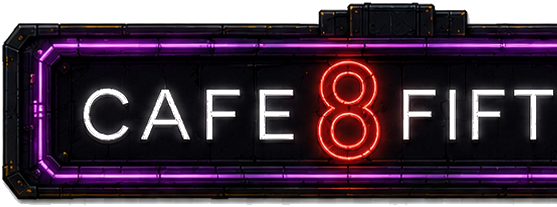
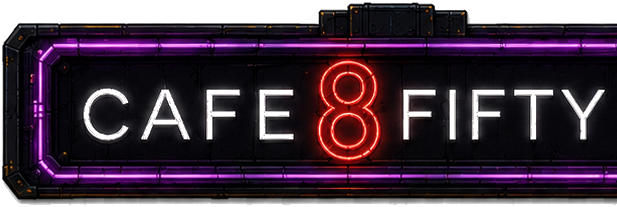
Tune cafe8fifty tile layout: full sign + clean facade, no header leaks
Iteration on the cafe8fifty exterior tile composer:
- Re-slice sheet 01 backdrops + facade with top_y=130 (was 100) to drop
  the "BACKDROPS" / "CORE FACADE STRUCTURE" section header glow
- Re-slice cafe8fifty_main_sign at w=640 (was 580) so the full
  "CAFE 8 FIFTY" lettering is captured (previously truncated at "FIFT")
- TileComposer now accepts worldW/worldH in TileLayout; tiles are written
  in the natural 1439x677 backdrop coordinate space and the composer
  scales the whole composition uniformly to fit the 960x540 viewport
- Layout rewritten in natural coords with bottom-center origin per tile,
  overlay the standalone main_sign on top of the facade to avoid the
  baked-in version being cut by panel overlap
- Layout now includes: sky + skyline + moon, 3-piece facade with neon-8
  baked in, separate main sign overlay, FSU/FAMU flyers, HITMANS VIP
  promo + members-only + NO PARKING signs, side signboard, TALLY ROW
  sign, fire hydrant, both streetlamps, front door + 850 rug + red
  rope stanchions + potted plants + VIP ENTRY sign, lit tent + smoker
  grill, fence run across foreground, hedge planters + lot edge wall

Verified live (?tiles=1): scene matches the cafe8fifty_pack_07_outside
_finished.png reference closely. Still uses pre-composited backdrop on
the default path so the live game stays working without ?tiles=1.

Claude-Session: https://claude.ai/code/session_018uytToQJ8XfYJwtLkfpMrS

diff --git a/game/src/data/layouts/cafe8fifty_exterior.ts b/game/src/data/layouts/cafe8fifty_exterior.ts
@@ -1,9 +1,10 @@
 // Cafe8Fifty exterior tile layout — assembled from sheets 01-04 of the
-// Stage 1 Venue Pack. The pre-composited cafe8fifty_exterior.png is the
-// BLUEPRINT REFERENCE — we recreate that layout here using individual tiles.
+// Stage 1 Venue Pack. Coordinates are in the NATURAL 1439×677 backdrop
+// space (matching the pre-composited cafe8fifty_exterior.png). TileComposer
+// scales the whole composition to fit GAME_WIDTH × GAME_HEIGHT (960×540).
 //
-// Scene is 960×540. Y origin (0,0) is top-left. Tiles use bottom-center
-// origin so y = where the tile's base sits on the floor / ground.
+// Origin convention: bottom-center per tile (origin [0.5, 1]). y is where
+// the tile's BASE sits in world coords.
 
 import type { TileLayout } from '../../systems/TileComposer';
 
@@ -11,76 +12,82 @@ export const CAFE8FIFTY_EXTERIOR_LAYOUT: TileLayout = {
   id: 'cafe8fifty_exterior',
   area: 'cafe8fifty/outside',
   prefix: 'cafe8fifty_outside_',
+  worldW: 1439,
+  worldH: 677,
   tiles: [
-    // ── LAYER 0: SKY BACKDROP (full width, behind everything) ───────────────
-    { tile: 'night_sky_backdrop', x: 0,   y: 220, w: 960, h: 220, origin: [0, 1], depth: -2000, alpha: 1 },
-    { tile: 'city_skyline_panel', x: 480, y: 260, w: 800, h: 140, depth: -1999, alpha: 0.95 },
-    { tile: 'moon_cloud_sky_panel', x: 780, y: 100, w: 220, h: 110, depth: -1998, alpha: 0.9 },
+    // ── LAYER 0: SKY (full width, far back) ─────────────────────────────────
+    { tile: 'night_sky_backdrop',  x: 0,    y: 0,   w: 1439, h: 310, origin: [0, 0], depth: -2000 },
+    { tile: 'city_skyline_panel',  x: 1080, y: 230, w: 720,  h: 150, depth: -1995 },
+    { tile: 'moon_cloud_sky_panel', x: 1230, y: 110, w: 230, h: 110, depth: -1990 },
 
-    // ── LAYER 1: FACADE STRUCTURE (back wall, behind floor) ─────────────────
-    { tile: 'facade_left_wing',          x: 130, y: 360, w: 230, h: 250, depth: -1900 },
-    { tile: 'cafe8fifty_facade_center',  x: 460, y: 360, w: 380, h: 260, depth: -1900 },
-    { tile: 'facade_right_wing',         x: 800, y: 360, w: 280, h: 250, depth: -1900 },
+    // ── LAYER 1: FACADE (back wall) ────────────────────────────────────────
+    // Center facade (CAFE 8 FIFTY sign + entry block)
+    { tile: 'cafe8fifty_facade_center', x: 540, y: 420, w: 380, h: 290, depth: -1900 },
+    // Left wing (with neon 8 + FSU/FAMU flyers area)
+    { tile: 'facade_left_wing',         x: 250, y: 420, w: 280, h: 270, depth: -1900 },
+    // Right wing (with HITMANS VIP After Spot signage + bricks toward tents)
+    { tile: 'facade_right_wing',        x: 820, y: 420, w: 290, h: 270, depth: -1900 },
+    // Far right wall extension (bricks toward NO PARKING sign)
+    { tile: 'wall_extender_straight',   x: 1020, y: 420, w: 260, h: 270, depth: -1905 },
 
-    // Main sign on the facade
-    { tile: 'cafe8fifty_main_sign',      x: 460, y: 80,  w: 400, h: 90,  depth: -1850 },
+    // ── LAYER 2: SIGNAGE on facade (overlay clean main sign on top — the
+    // version baked into the facade tiles gets cut by panel overlap) ─────
+    { tile: 'cafe8fifty_main_sign',   x: 540, y: 220, w: 380, h: 95,  depth: -1850 },
+    { tile: 'fsu_famu_flyer_a',       x: 390, y: 330, w: 70,  h: 130, depth: -1840 },
+    { tile: 'fsu_famu_flyer_b',       x: 465, y: 330, w: 70,  h: 130, depth: -1840 },
+    { tile: 'hvas_promo_sign',        x: 785, y: 320, w: 115, h: 125, depth: -1840 },
+    { tile: 'no_parking_sign',        x: 1250, y: 245, w: 60, h: 80,  depth: -1840 },
 
-    // Side neon "8" on the left facade
-    { tile: 'neon_eight_sign',           x: 200, y: 270, w: 80,  h: 130, depth: -1840 },
+    // ── LAYER 3: LEFT-SIDE PROPS ────────────────────────────────────────────
+    // Streetlamp left
+    { tile: 'streetlamp',             x: 145, y: 380, w: 40,  h: 280, depth: 380 },
+    // CAFE 8 FIFTY signboard
+    { tile: 'cafe8fifty_side_signboard', x: 65, y: 360, w: 95, h: 190, depth: 360 },
+    // Tally Row street sign
+    { tile: 'tally_row_street_sign',  x: 165, y: 290, w: 90, h: 105, depth: 290 },
+    // Fire hydrant
+    { tile: 'fire_hydrant',           x: 85,  y: 535, w: 38, h: 95,  depth: 535 },
+    // Streetlamp right (mirror)
+    { tile: 'streetlamp',             x: 1265, y: 350, w: 40, h: 280, depth: 350 },
 
-    // FSU / FAMU flyer panels next to entrance
-    { tile: 'fsu_famu_flyer_a',          x: 330, y: 280, w: 75,  h: 115, depth: -1840 },
-    { tile: 'fsu_famu_flyer_b',          x: 410, y: 280, w: 75,  h: 115, depth: -1840 },
+    // ── LAYER 4: ENTRY (door + rug + stanchions + plants) ───────────────────
+    { tile: 'front_double_door',      x: 540, y: 405, w: 120, h: 220, depth: -1830 },
+    { tile: 'entry_rug_850',          x: 540, y: 405, w: 140, h: 50,  depth: 405 },
+    // Red rope stanchions flanking the door
+    { tile: 'red_rope_stanchion',     x: 445, y: 380, w: 70, h: 95,  depth: 380 },
+    { tile: 'red_rope_stanchion',     x: 635, y: 380, w: 70, h: 95,  depth: 380 },
+    // Potted plants flanking
+    { tile: 'potted_plant',           x: 405, y: 380, w: 48, h: 90,  depth: 380 },
+    { tile: 'potted_plant',           x: 670, y: 380, w: 48, h: 90,  depth: 380 },
+    // VIP ENTRY sign
+    { tile: 'vip_entry_sign',         x: 720, y: 380, w: 55, h: 90,  depth: 380 },
 
-    // Front double door (entrance)
-    { tile: 'front_double_door',         x: 510, y: 360, w: 90,  h: 165, depth: -1830 },
+    // ── LAYER 5: TENTS (right side) ─────────────────────────────────────────
+    { tile: 'tent_interior_lit',      x: 1090, y: 460, w: 480, h: 250, depth: 460 },
+    // Smoker grill / hibachi in front of tents
+    { tile: 'smoker_grill',           x: 935,  y: 495, w: 120, h: 100, depth: 495 },
+    // HITMANS VIP After Spot small sign next to smoker
+    { tile: 'hvas_promo_sign',        x: 1050, y: 480, w: 55,  h: 85,  depth: 480 },
 
-    // HVAS promo + members only signs on right facade
-    { tile: 'hvas_promo_sign',           x: 680, y: 290, w: 90,  h: 120, depth: -1840 },
-    { tile: 'members_only_panel',        x: 770, y: 290, w: 75,  h: 120, depth: -1840 },
+    // ── LAYER 6: FENCE (zigzag across foreground) ──────────────────────────
+    { tile: 'fence_corner',           x: 285,  y: 555, w: 90,  h: 90,  depth: 555 },
+    { tile: 'fence_straight',         x: 380,  y: 555, w: 90,  h: 70,  depth: 555 },
+    { tile: 'fence_straight',         x: 475,  y: 555, w: 90,  h: 70,  depth: 555 },
+    { tile: 'fence_straight',         x: 565,  y: 555, w: 90,  h: 70,  depth: 555 },
+    { tile: 'fence_corner',           x: 660,  y: 555, w: 90,  h: 90,  depth: 555, flipX: true },
+    { tile: 'fence_straight',         x: 760,  y: 555, w: 90,  h: 70,  depth: 555 },
+    { tile: 'fence_straight',         x: 855,  y: 555, w: 90,  h: 70,  depth: 555 },
+    { tile: 'fence_straight',         x: 950,  y: 555, w: 90,  h: 70,  depth: 555 },
+    { tile: 'fence_corner',           x: 1045, y: 555, w: 90,  h: 90,  depth: 555 },
 
-    // VIP entry signboard
-    { tile: 'cafe8fifty_side_signboard', x: 50,  y: 380, w: 75,  h: 175, depth: -1840 },
-
-    // Tally Row street sign post (corner)
-    { tile: 'tally_row_street_sign',     x: 130, y: 360, w: 85,  h: 110, depth: -1700, origin: [0.5, 1] },
-
-    // ── LAYER 2: GROUND (floor / sidewalk between back wall and front) ──────
-    // Use entry rug at the door
-    { tile: 'entry_rug_850',             x: 510, y: 430, w: 110, h: 50,  depth: 350 },
-
-    // Red rope stanchions flanking the entry
-    { tile: 'red_rope_stanchion',        x: 460, y: 425, w: 70,  h: 75,  depth: 425 },
-    { tile: 'red_rope_stanchion',        x: 580, y: 425, w: 70,  h: 75,  depth: 425 },
-
-    // ── LAYER 3: TENT (right side seating) ──────────────────────────────────
-    { tile: 'tent_interior_lit',         x: 800, y: 440, w: 220, h: 200, depth: 440 },
-
-    // Smoker grill in front of tent
-    { tile: 'smoker_grill',              x: 700, y: 470, w: 110, h: 95,  depth: 470 },
-
-    // ── LAYER 4: FENCE running across foreground ────────────────────────────
-    { tile: 'fence_corner',              x: 240, y: 500, w: 80,  h: 60,  depth: 500 },
-    { tile: 'fence_straight',            x: 340, y: 500, w: 100, h: 50,  depth: 500 },
-    { tile: 'fence_straight',            x: 460, y: 500, w: 100, h: 50,  depth: 500 },
-    { tile: 'fence_straight',            x: 580, y: 500, w: 100, h: 50,  depth: 500 },
-    { tile: 'fence_corner',              x: 700, y: 500, w: 80,  h: 60,  depth: 500, flipX: true },
-
-    // ── LAYER 5: STREETLAMPS (forward props) ────────────────────────────────
-    { tile: 'streetlamp',                x: 70,  y: 460, w: 35,  h: 150, depth: 460 },
-    { tile: 'streetlamp',                x: 900, y: 460, w: 35,  h: 150, depth: 460 },
-
-    // Fire hydrant + hedge planters in front strip
-    { tile: 'fire_hydrant',              x: 110, y: 525, w: 30,  h: 55,  depth: 525 },
-    { tile: 'hedge_planter_straight',    x: 30,  y: 538, w: 90,  h: 35,  depth: 538 },
-    { tile: 'hedge_planter_corner',      x: 130, y: 538, w: 70,  h: 45,  depth: 538 },
-    { tile: 'hedge_planter_straight',    x: 220, y: 538, w: 90,  h: 35,  depth: 538 },
-
-    // Potted plants flanking the entrance
-    { tile: 'potted_plant',              x: 440, y: 430, w: 38,  h: 65,  depth: 430 },
-    { tile: 'potted_plant',              x: 620, y: 430, w: 38,  h: 65,  depth: 430 },
-
-    // Misc litter for streetscape detail
-    { tile: 'parking_lot_litter_set',    x: 380, y: 538, w: 80,  h: 30,  depth: 538, alpha: 0.85 },
+    // ── LAYER 7: BOTTOM HEDGE WALL strip ────────────────────────────────────
+    { tile: 'lot_edge_wall',          x: 0,    y: 677, w: 1439, h: 70, origin: [0, 1], depth: 670 },
+    // Hedge planters along bottom
+    { tile: 'hedge_planter_straight', x: 90,   y: 645, w: 150, h: 40, depth: 645 },
+    { tile: 'hedge_planter_straight', x: 245,  y: 645, w: 150, h: 40, depth: 645 },
+    { tile: 'hedge_planter_corner',   x: 400,  y: 645, w: 90,  h: 50, depth: 645 },
+    { tile: 'hedge_planter_straight', x: 700,  y: 645, w: 150, h: 40, depth: 645 },
+    { tile: 'hedge_planter_straight', x: 855,  y: 645, w: 150, h: 40, depth: 645 },
+    { tile: 'hedge_planter_straight', x: 1100, y: 645, w: 150, h: 40, depth: 645 },
   ],
 };

diff --git a/game/src/systems/TileComposer.ts b/game/src/systems/TileComposer.ts
@@ -8,7 +8,7 @@
 // player feet sit on the floor.
 
 import Phaser from 'phaser';
-import { ASSET_BASE } from '../config';
+import { ASSET_BASE, GAME_WIDTH, GAME_HEIGHT } from '../config';
 
 export type TilePlacement = {
   tile: string;            // file basename under /assets/venues/props/<venue>/<area>/
@@ -27,16 +27,25 @@ export type TileLayout = {
   id: string;              // unique key for this layout
   area: string;            // path segment: 'cafe8fifty/outside', 'hvas/inside', etc.
   prefix: string;          // file prefix: 'cafe8fifty_outside_', 'hvas_inside_'
+  // Natural coordinate space the tile positions are written in. Composer
+  // wraps the tiles in a Container scaled so this rectangle maps onto the
+  // viewport (GAME_WIDTH × GAME_HEIGHT). Lets layouts use the original
+  // finished-backdrop pixel coordinates without manual viewport math.
+  worldW: number;
+  worldH: number;
   tiles: TilePlacement[];
 };
 
 export const TileComposer = {
   /** Place every tile in the layout, loading each via Image probe. */
   compose(scene: Phaser.Scene, layout: TileLayout): void {
+    // Uniform scale that fits layout.worldW × worldH into the viewport.
+    const sx = GAME_WIDTH / layout.worldW;
+    const sy = GAME_HEIGHT / layout.worldH;
     for (const p of layout.tiles) {
       const key = `tile_${layout.id}_${p.tile}`;
       if (scene.textures.exists(key)) {
-        this.place(scene, key, p);
+        this.place(scene, key, p, sx, sy);
         continue;
       }
       const url = `${ASSET_BASE}venues/props/${layout.area}/${layout.prefix}${p.tile}.png`;
@@ -44,21 +53,23 @@ export const TileComposer = {
       probe.onload = () => {
         if (!scene.scene.isActive()) return;
         if (!scene.textures.exists(key)) scene.textures.addImage(key, probe);
-        this.place(scene, key, p);
+        this.place(scene, key, p, sx, sy);
       };
       probe.onerror = () => { /* silent — graybox fallback already present */ };
       probe.src = url;
     }
   },
 
-  place(scene: Phaser.Scene, key: string, p: TilePlacement): void {
-    const img = scene.add.image(p.x, p.y, key);
+  place(scene: Phaser.Scene, key: string, p: TilePlacement, sx = 1, sy = 1): void {
+    const img = scene.add.image(p.x * sx, p.y * sy, key);
     const [ox, oy] = p.origin ?? [0.5, 1];
     img.setOrigin(ox, oy);
     if (p.scale != null) {
-      img.setScale(p.scale);
+      img.setScale(p.scale * sx, p.scale * sy);
     } else if (p.w != null && p.h != null) {
-      img.setDisplaySize(p.w, p.h);
+      img.setDisplaySize(p.w * sx, p.h * sy);
+    } else {
+      img.setScale(sx, sy); // natural size, scaled to viewport
     }
     img.setDepth(p.depth ?? p.y);
     if (p.alpha != null) img.setAlpha(p.alpha);
